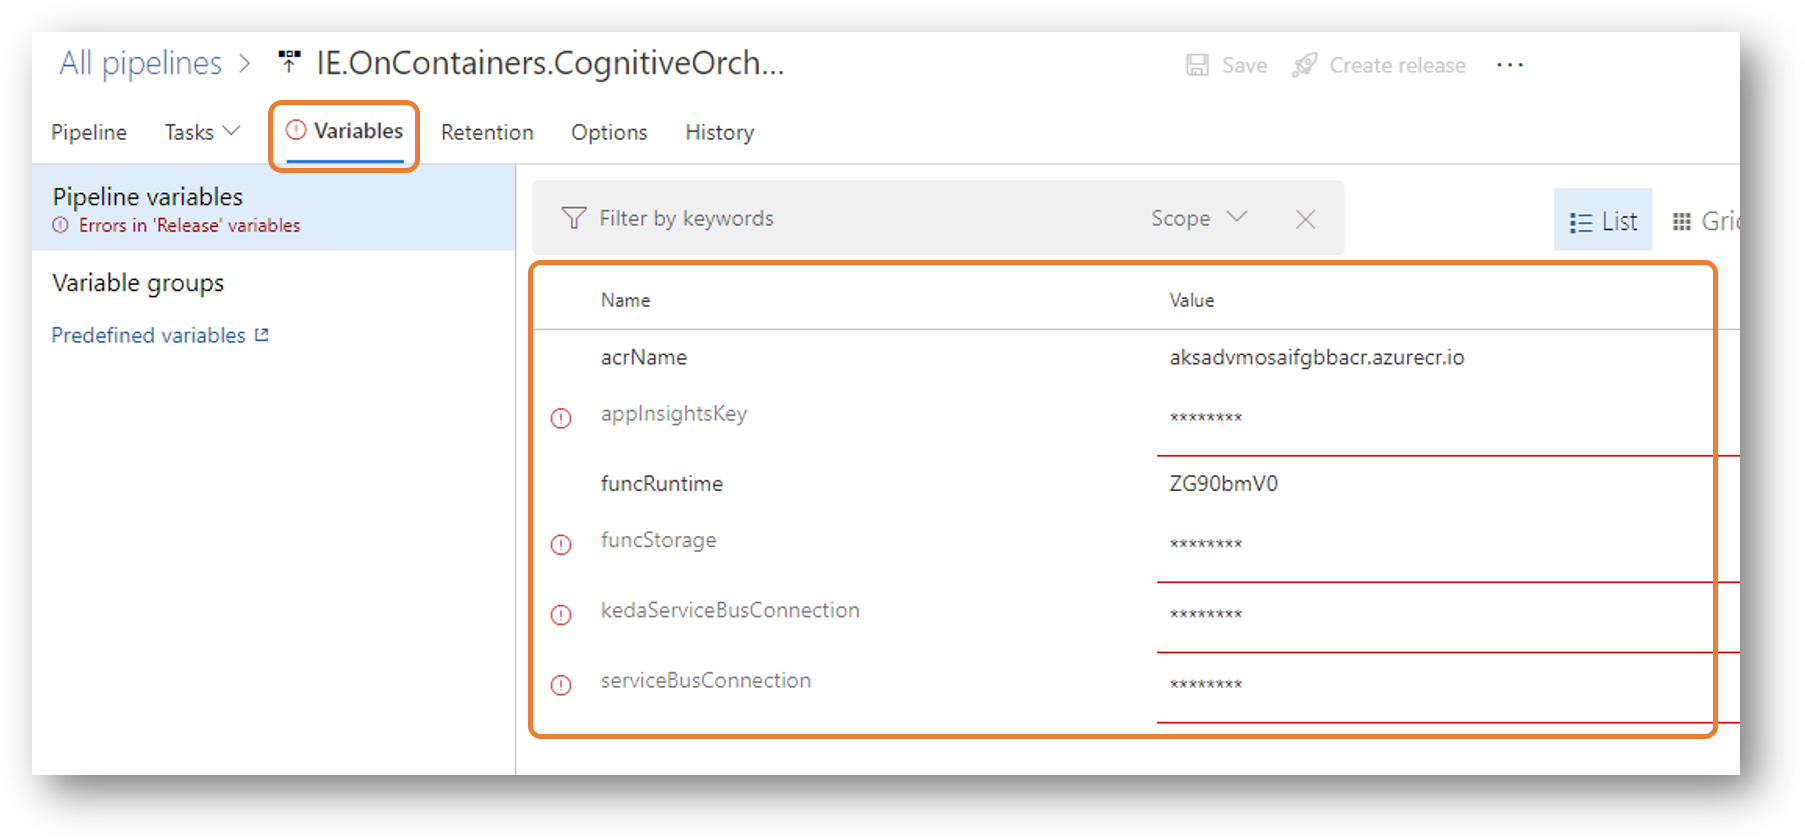
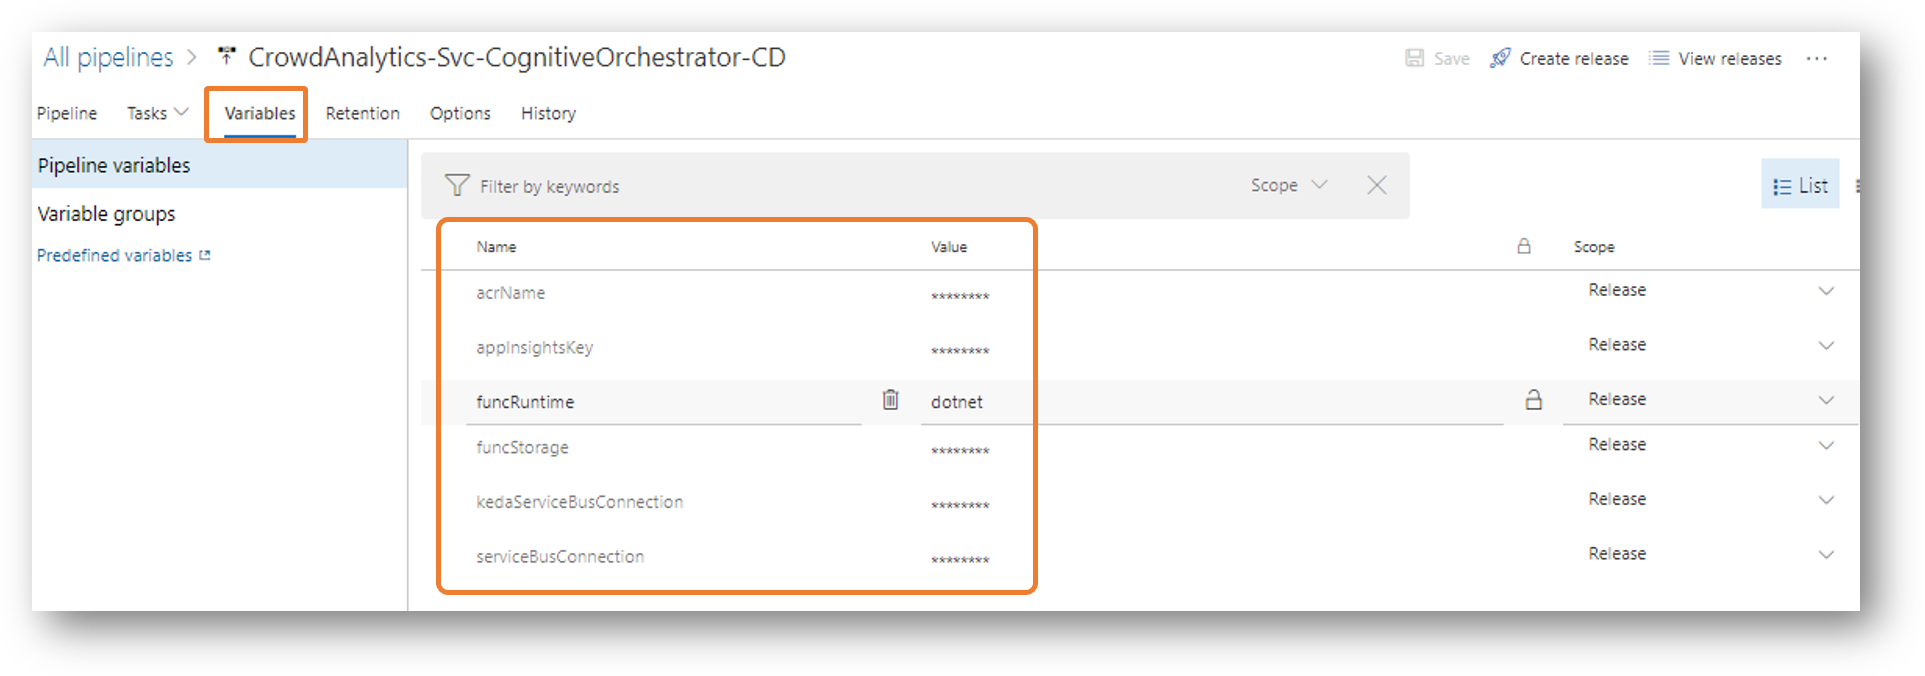
Updated deployment guide

diff --git a/guide/05-deployment/README.md b/guide/05-deployment/README.md
@@ -118,7 +118,7 @@ Select (GitHub YAML) or (Azure Repos Git YAML) based on where is your code:
 ![azure-pipelines-connect](assets/azure-newpipeline-connect.png)
 
 >NOTE: Selecting GitHub for the first time, you will need to connect Azure DevOps to your GitHub account. If you have challenges, you can review the following lab [Integrate Your GitHub Projects With Azure Pipelines](https://azuredevopslabs.com//labs/azuredevops/github-integration/)
-****
+
 Next you select the project repo. It will differ based on you selection in the previous step (**I**'m using GitHub to host the code):
 
 ![azure-pipelines-repo](assets/azure-newpipeline-repo.png)
@@ -141,7 +141,7 @@ Finally review the content of the yaml file and click on Run to queue a new buil
 
 CONGRATULATIONS! You first pipeline is now being built.
 
-Please repeat the above steps for each pipeline mentioned.
+Please repeat the above steps for each pipeline yaml definitions mentioned above.
 
 >NOTE: This repo includes various template files that are leveraged by the main pipeline definition mentioned here (azure-pipelines-cognitive-orchestrator.yml). These template files will not be used to create pipelines directly. Template files end with angular, webapp, nuget and tests)
 
@@ -166,11 +166,15 @@ Now if you added all 5 pipelines (3 services and 2 NuGet packages), you will end
 
 Confusing a bit! You can now update the names of each pipeline to reflect each pipeline function. 
 
-Select **Rename** from the elipses beside the build definition to update:
+Select **Rename** from the ellipses beside the build definition to update:
 
 ![rename](assets/azure-pipelines-rename.png)
 
 Now you can end up with something more relevant like:
+
+- CrowdAnalytics-Svc-CognitiveOrchestrator-CI
+- CrowdAnalytics-Svc-CamFrameAnalyzer-CI
+- CrowdAnalytics-Svc-CrowdAnalyzer-CI
 
 ![renamed](assets/azure-pipelines-renamed.png)
 
@@ -210,11 +214,11 @@ Head to the tasks under the (Dev) stage in the release designer.
 
 ![release stage](assets/release-dev-stage.png)
 
-Configure the agent properties as per the following:
+Configure the agent properties as per the following (Agen Pool: Azure Pipelines, Agent Specification: Ubuntu-18.04):
 
 ![release agent](assets/release-agent.png)
 
-Now update the Kubernetes task to use the previously created service connection to Kubernetes cluster:
+Now update the Kubernetes task to use the previously created service connection to your Kubernetes cluster:
 
 ![agent kube](assets/release-kube.png)
 
@@ -222,23 +226,67 @@ Final thing is the update the pipeline variables as the Kubernetes deployment fi
 
 ![release variables](assets/release-vars.png)
 
->NOTE: Variable values must be ```base64``` encoded before saving them to the pipeline (except the acrName variable). You can use the auto generated deployment file from Azure Functions Core Tools. Refer to [Services Guide](src/../../../src/services/README.md) for more information.
+To make it easier, below is the mapping of script saved variables (you should have ```crowdanalytics``` file generated during the script execution):
+
+##### CrowdAnalytics-Svc-CognitiveOrchestrator-CI Variables
+
+| Pipeline Variable        | Script Variable          | Description                                                    |
+|--------------------------|--------------------------|----------------------------------------------------------------|
+| acrName                  | CONTAINER_REGISTRY_URL   | YOURCONTAINERNAME.azurecr.io                                   |
+| appInsightsKey           | APPINSIGHTS_KEY_ORCH     | Application Insights instrumentation key                       |
+| funcRuntime              | dotnet                   | For Azure Functions runtime                                    |
+| funcStorage              | FRAMES_STORAGE_CONN      | Used by Azure Functions                                        |
+| kedaServiceBusConnection | SB_TOPIC_ORCH_CONNECTION | Connection string specific to single topic (cognitive-request) |
+| serviceBusConnection     | SB_NAMESPACE_CONNECTION  | Root connection string to your Service Bus                     |
 
 Now click save, then click create release to run the pipeline.
 
 Now you can repeat the above steps for each service and NuGet library part of this solution.
 
-## Testing
+Here is the other pipeline variable mapping as well:
 
-Now you are ready to check as experienced SRE (Site Reliability Engineering) that the deployed components are up and healthy.
+##### CrowdAnalytics-Svc-CamFrameAnalyzer-CI
+
+| Pipeline Variable         | Script Variable         | Description                                                                      |
+|---------------------------|-------------------------|----------------------------------------------------------------------------------|
+| acrName                   | CONTAINER_REGISTRY_URL  | YOURCONTAINERNAME.azurecr.io                                                     |
+| appInsightsKey            | APPINSIGHTS_KEY_CAM     | Application Insights instrumentation key                                         |
+| camFrameStorageConnection | FRAMES_STORAGE_CONN     | This is the storage account the camera frames are uploaded to                    |
+| cognitiveEndpoint         | CS_ACCOUNT_ENDPOINT     | Usually in the format (https://AZURE-REGION.api.cognitive.microsoft.com)         |
+| cognitiveKey              | CS_ACCOUNT_KEY          | Your cognitive services access key                                               |
+| cosmosDbEndpoint          | COSMOSDB_PRIMARY_CONN   | Take only the part after AccountEndpoint in the connection                       |
+| cosmosDbKey               | COSMOSDB_PRIMARY_CONN   | Copy only the part after AccountKey in the connection                            |
+| faceWorkspaceDataFilter   | Contoso.CrowdAnalytics  | This is a static value represent the person group (for identified faces feature) |
+| funcRuntime               | dotnet                  | For Azure Functions runtime                                                      |
+| funcStorage               | FRAMES_STORAGE_CONN     | Used by Azure Functions                                                          |
+| kedaServiceBusConnection  | SB_TOPIC_CAM_CONNECTION | Connection string specific to single topic (camframe-analysis)                   |
+| serviceBusConnection      | SB_NAMESPACE_CONNECTION | Root connection string to your Service Bus                                       |
+
+##### CrowdAnalytics-Svc-CrowdAnalyzer-CI
+
+| Pipeline Variable        | Script Variable           | Description                                                                      |
+|--------------------------|---------------------------|----------------------------------------------------------------------------------|
+| acrName                  | CONTAINER_REGISTRY_URL    | YOURCONTAINERNAME.azurecr.io                                                     |
+| appInsightsKey           | APPINSIGHTS_KEY_CAM       | Application Insights instrumentation key                                         |
+| checkForDbConsistency    | true                      | A flag so used when updating the cosmos db crowd data                            |
+| cosmosDbEndpoint         | COSMOSDB_PRIMARY_CONN     | Take only the part after AccountEndpoint in the connection                       |
+| cosmosDbKey              | COSMOSDB_PRIMARY_CONN     | Copy only the part after AccountKey in the connection                            |
+| faceWorkspaceDataFilter  | Contoso.CrowdAnalytics    | This is a static value represent the person group (for identified faces feature) |
+| funcRuntime              | dotnet                    | For Azure Functions runtime                                                      |
+| funcStorage              | FRAMES_STORAGE_CONN       | Used by Azure Functions                                                          |
+| kedaServiceBusConnection | SB_TOPIC_CROWD_CONNECTION | Connection string specific to single topic (crowd-analysis)                      |
+| serviceBusConnection     | SB_NAMESPACE_CONNECTION   | Root connection string to your Service Bus                                       |
+| origin                   | CrowdAnalyzer.V1.0.0      | Static value indicate the originating crowd calculations                         |
+
+## Running Crowd Analytics Platform
+
+Now you are ready to check that the deployed components are up and healthy.
 
 ### Kubernetes Services Test
 
 Let's check that every part of the deployment works
 
-#### Crowd Analytics Components
-
-##### AKS
+#### AKS Services
 
 You have mainly 3 components running on AKS:
 
@@ -252,13 +300,34 @@ All services are deployed to AKS in a namespace called [crowd-analytics]. Let's 
 
 # Get everything deployed to the namespace (crowd-analytics)
 kubectl get all -n crowd-analytics
+# Healthy output should look like this:
+# NAME                                          READY   STATUS    RESTARTS   AGE
+# pod/cognitive-orchestrator-54db94b464-tgkcp   1/1     Running   0          6h3m
+
+# NAME                                     READY   UP-TO-DATE   AVAILABLE   AGE
+# deployment.apps/camframe-analyzer        0/0     0            0           5h16m
+# deployment.apps/cognitive-orchestrator   1/1     1            1           18h
+# deployment.apps/crowd-analyzer           0/0     0            0           4h35m
+
+# NAME                                                DESIRED   CURRENT   READY   AGE
+# replicaset.apps/camframe-analyzer-6cf5cfcb8b        0         0         0       5h16m
+# replicaset.apps/camframe-analyzer-b944997f9         0         0         0       4h42m
+# replicaset.apps/camframe-analyzer-f9699db64         0         0         0       5h13m
+# replicaset.apps/cognitive-orchestrator-54db94b464   1         1         1       6h3m
+# replicaset.apps/cognitive-orchestrator-76fb5f684c   0         0         0       18h
+# replicaset.apps/cognitive-orchestrator-f77777956    0         0         0       7h8m
+# replicaset.apps/crowd-analyzer-5f69ff4b4b           0         0         0       4h35m
+
+# NAME                                                                  REFERENCE                           TARGETS              MINPODS   MAXPODS   REPLICAS   AGE
+# horizontalpodautoscaler.autoscaling/keda-hpa-camframe-analyzer        Deployment/camframe-analyzer        <unknown>/10 (avg)   1         50     
+# horizontalpodautoscaler.autoscaling/keda-hpa-cognitive-orchestrator   Deployment/cognitive-orchestrator   0/10 (avg)           1         20     
+# horizontalpodautoscaler.autoscaling/keda-hpa-crowd-analyzer           Deployment/crowd-analyzer           <unknown>/10 (avg)   1         50
 
 kubectl get deployment -n crowd-analytics
-
 # Results could look like this:
 # NAME                     READY   UP-TO-DATE   AVAILABLE   AGE
-# camframe-analyzer        0/0     0            0           93m
-# cognitive-orchestrator   1/1     1            1           14h
+# camframe-analyzer        0/0     0            0           12m
+# cognitive-orchestrator   1/1     1            1           11m
 # crowd-analyzer           0/0     0            0           12m
 
 # You can get details about a specific deployment using:
@@ -269,7 +338,12 @@ kubectl get pods -n crowd-analytics
 
 # In addition to the above, you can access KEDA scaler logs as well:
 kubectl get pods -n keda
+# Output should look like
+# NAME                                               READY   STATUS    RESTARTS   AGE
+# keda-operator-dbfbd6bdb-qnn6g                      1/1     Running   0          22h
+# keda-operator-metrics-apiserver-8678f8c5d9-nhw2l   1/1     Running   0          22h
 
+# To access the logs of the main KEDA operator, you can execute (replace with the actual KEDA pod name)
 kubectl logs REPLACE_KEDA_POD_NAME -n keda
 
 # Save logs to a file
@@ -279,13 +353,13 @@ kubectl logs REPLACE_KEDA_POD_NAME -n keda > keda.logs
 
 One of the amazing aspects of KEDA's ```ScaledObject``` that it can scale down to 0 and scale up to N based on the event trigger (in this case we are using Service Bus trigger).
 
->NOTE: In KEDA ```ScaledObject``` definition for each service, you can set the ```minReplicaCount``` to 0 like in camframe-analyzer. I've set the cognitive-orchestrator minimum to 1 (that is why it show 1/1)
+>NOTE: In KEDA ```ScaledObject``` definition for each service, you can set the ```minReplicaCount``` to 0 like in camframe-analyzer. I've set the cognitive-orchestrator minimum to 1 (that is why it show 1/1). ```ScaledObject``` definition is found in each service source code under the deployment folder.
 
-##### Cam Device Web
+##### Cam Device Web (Simulated)
 
 Open the [src/iot/Cam.Device.Web/Cam.Device.Web.csproj](cam.../../src/iot/Cam.Device.Web/Cam.Device.Web.csproj) project in Visual Studio or Visual Studio code.
 
-Update the following settings in (appSettings.json) before running the project:
+Update the following settings #{VARIABLE}# in (appSettings.json) with your values before running the project:
 
 ```json
 
@@ -299,7 +373,7 @@ Update the following settings in (appSettings.json) before running the project:
   },
   "AllowedHosts": "*",
   "AppSettings": {
-    "DeviceId": "Device-Simulated-001",
+    "DeviceId": "Device-Web-Sim-001",
     "DeviceConnectionString": "#{DeviceConnectionString}#",
     "IsEdgeModeEnabled": false,
     "StorageConnection": "#{StorageConnection}#",
@@ -313,9 +387,11 @@ Now build and run the ASP .NET Core website locally. Grant permission to the cam
 
 ![device](assets/device.png)
 
+By default, every 15 seconds a javascript code take a snap of the camera. Camera frame are then uploaded to Azure Storage and a new IoT Hub event is sent.
+
 **Cleanup Quick Tips:**
 
-In the script below, you can find some usful tips:
+In the script below, you can find some useful tips:
 
 ```bash
 
